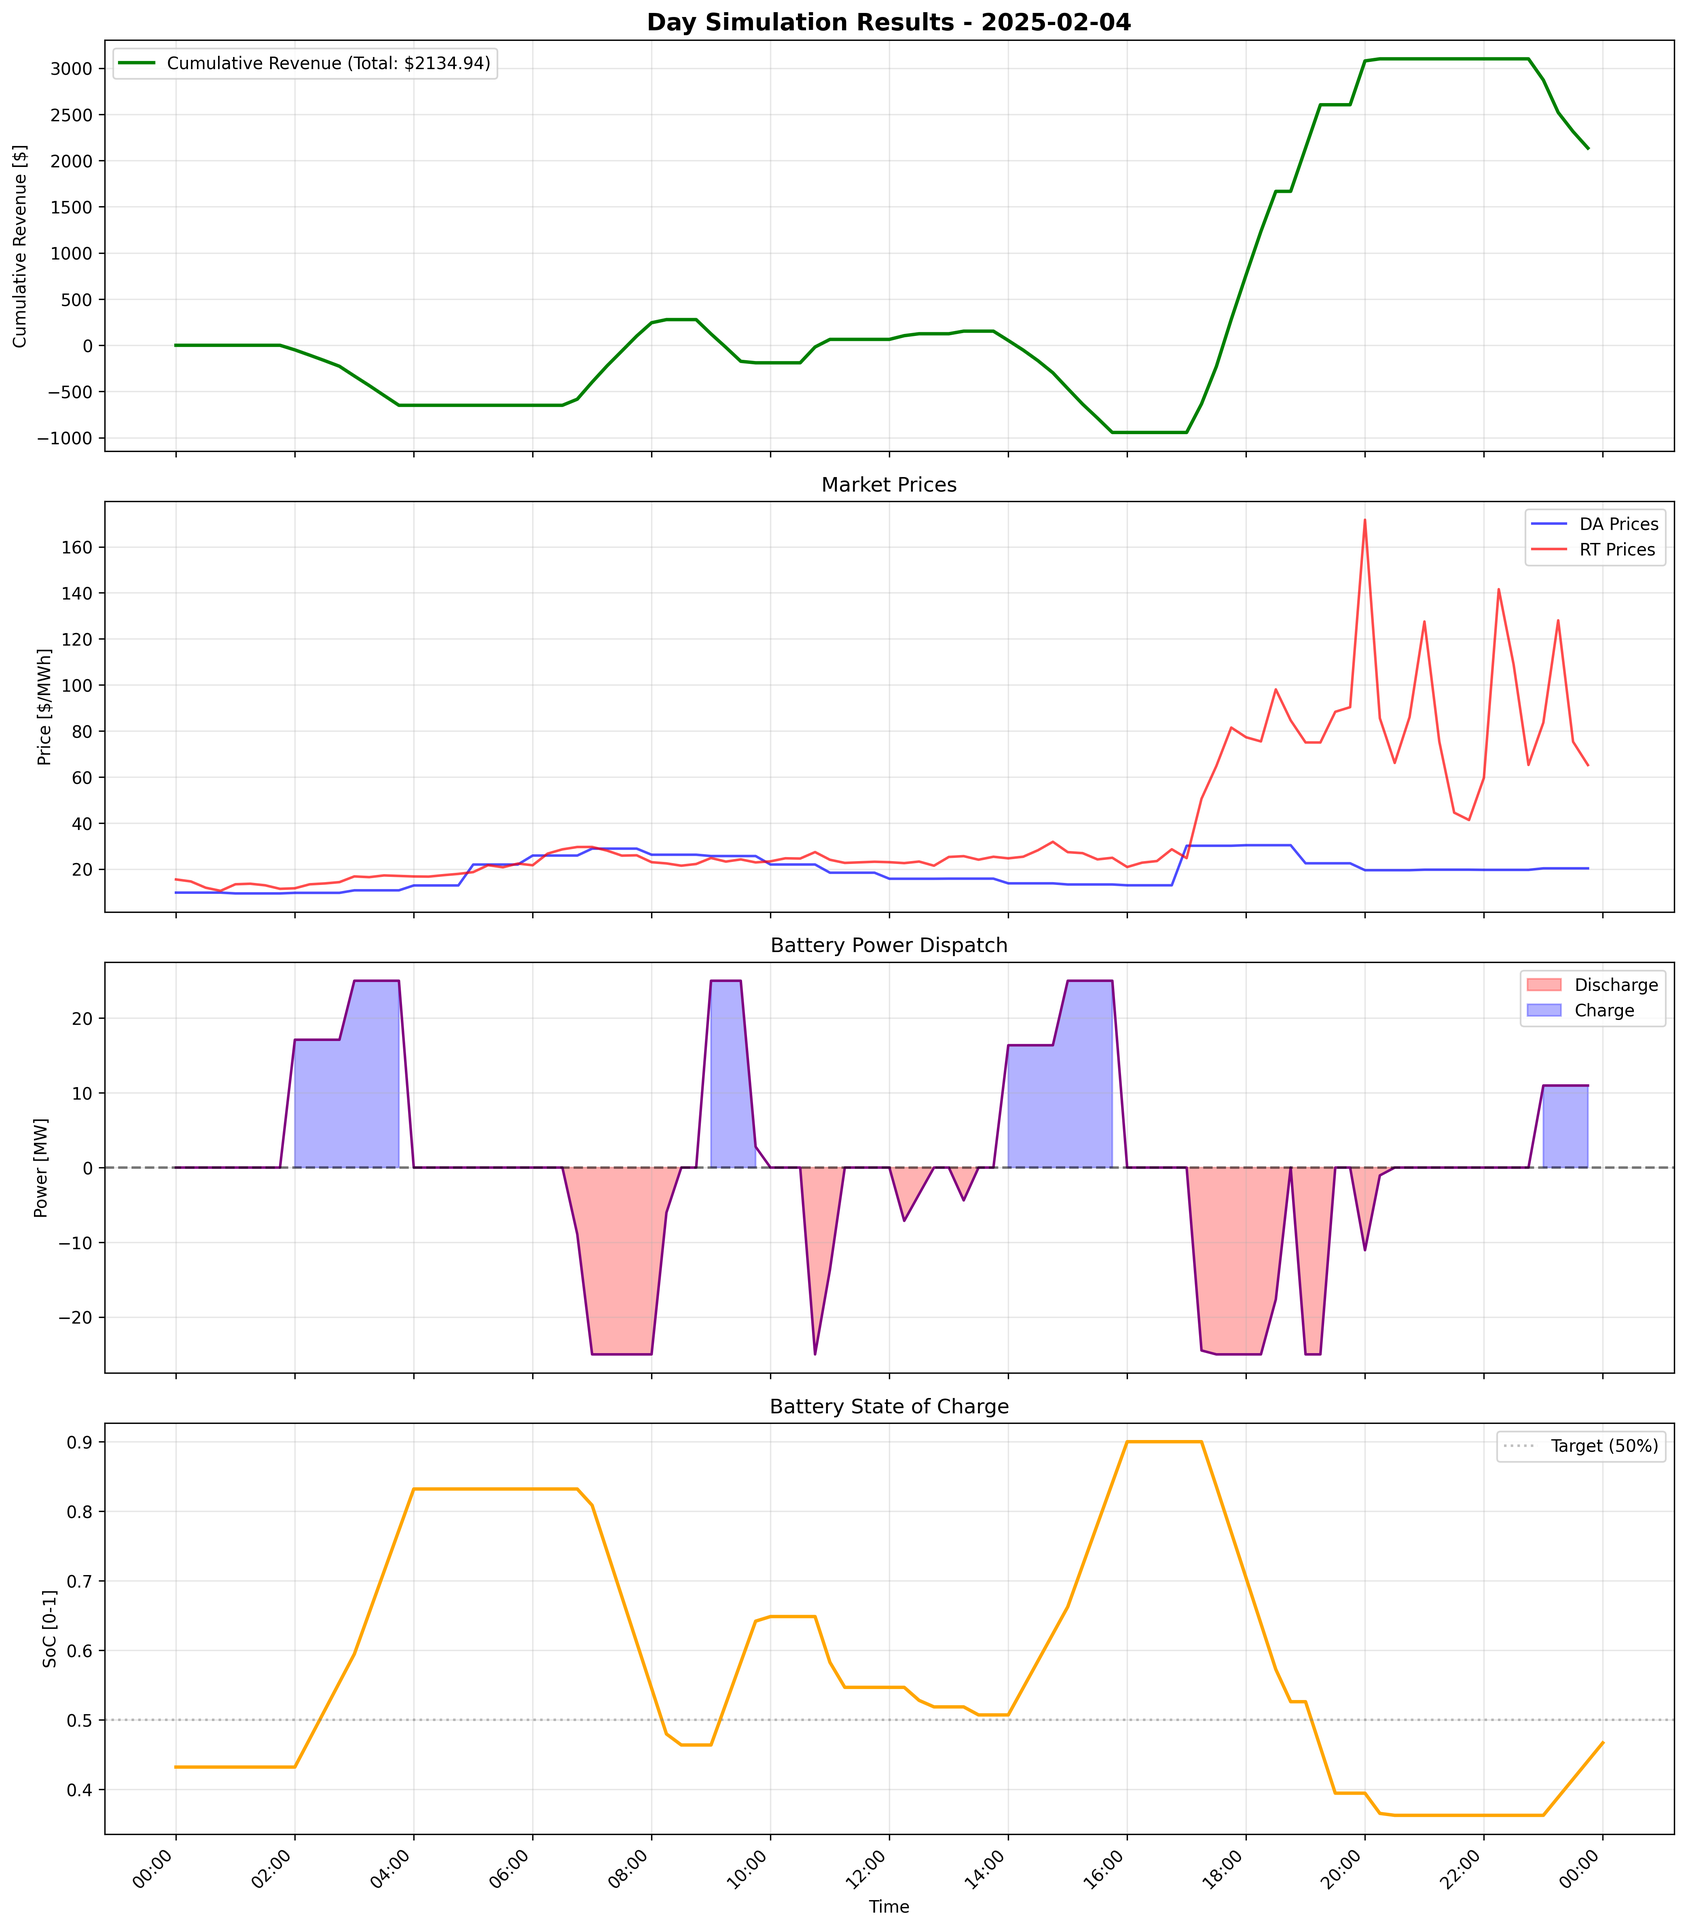
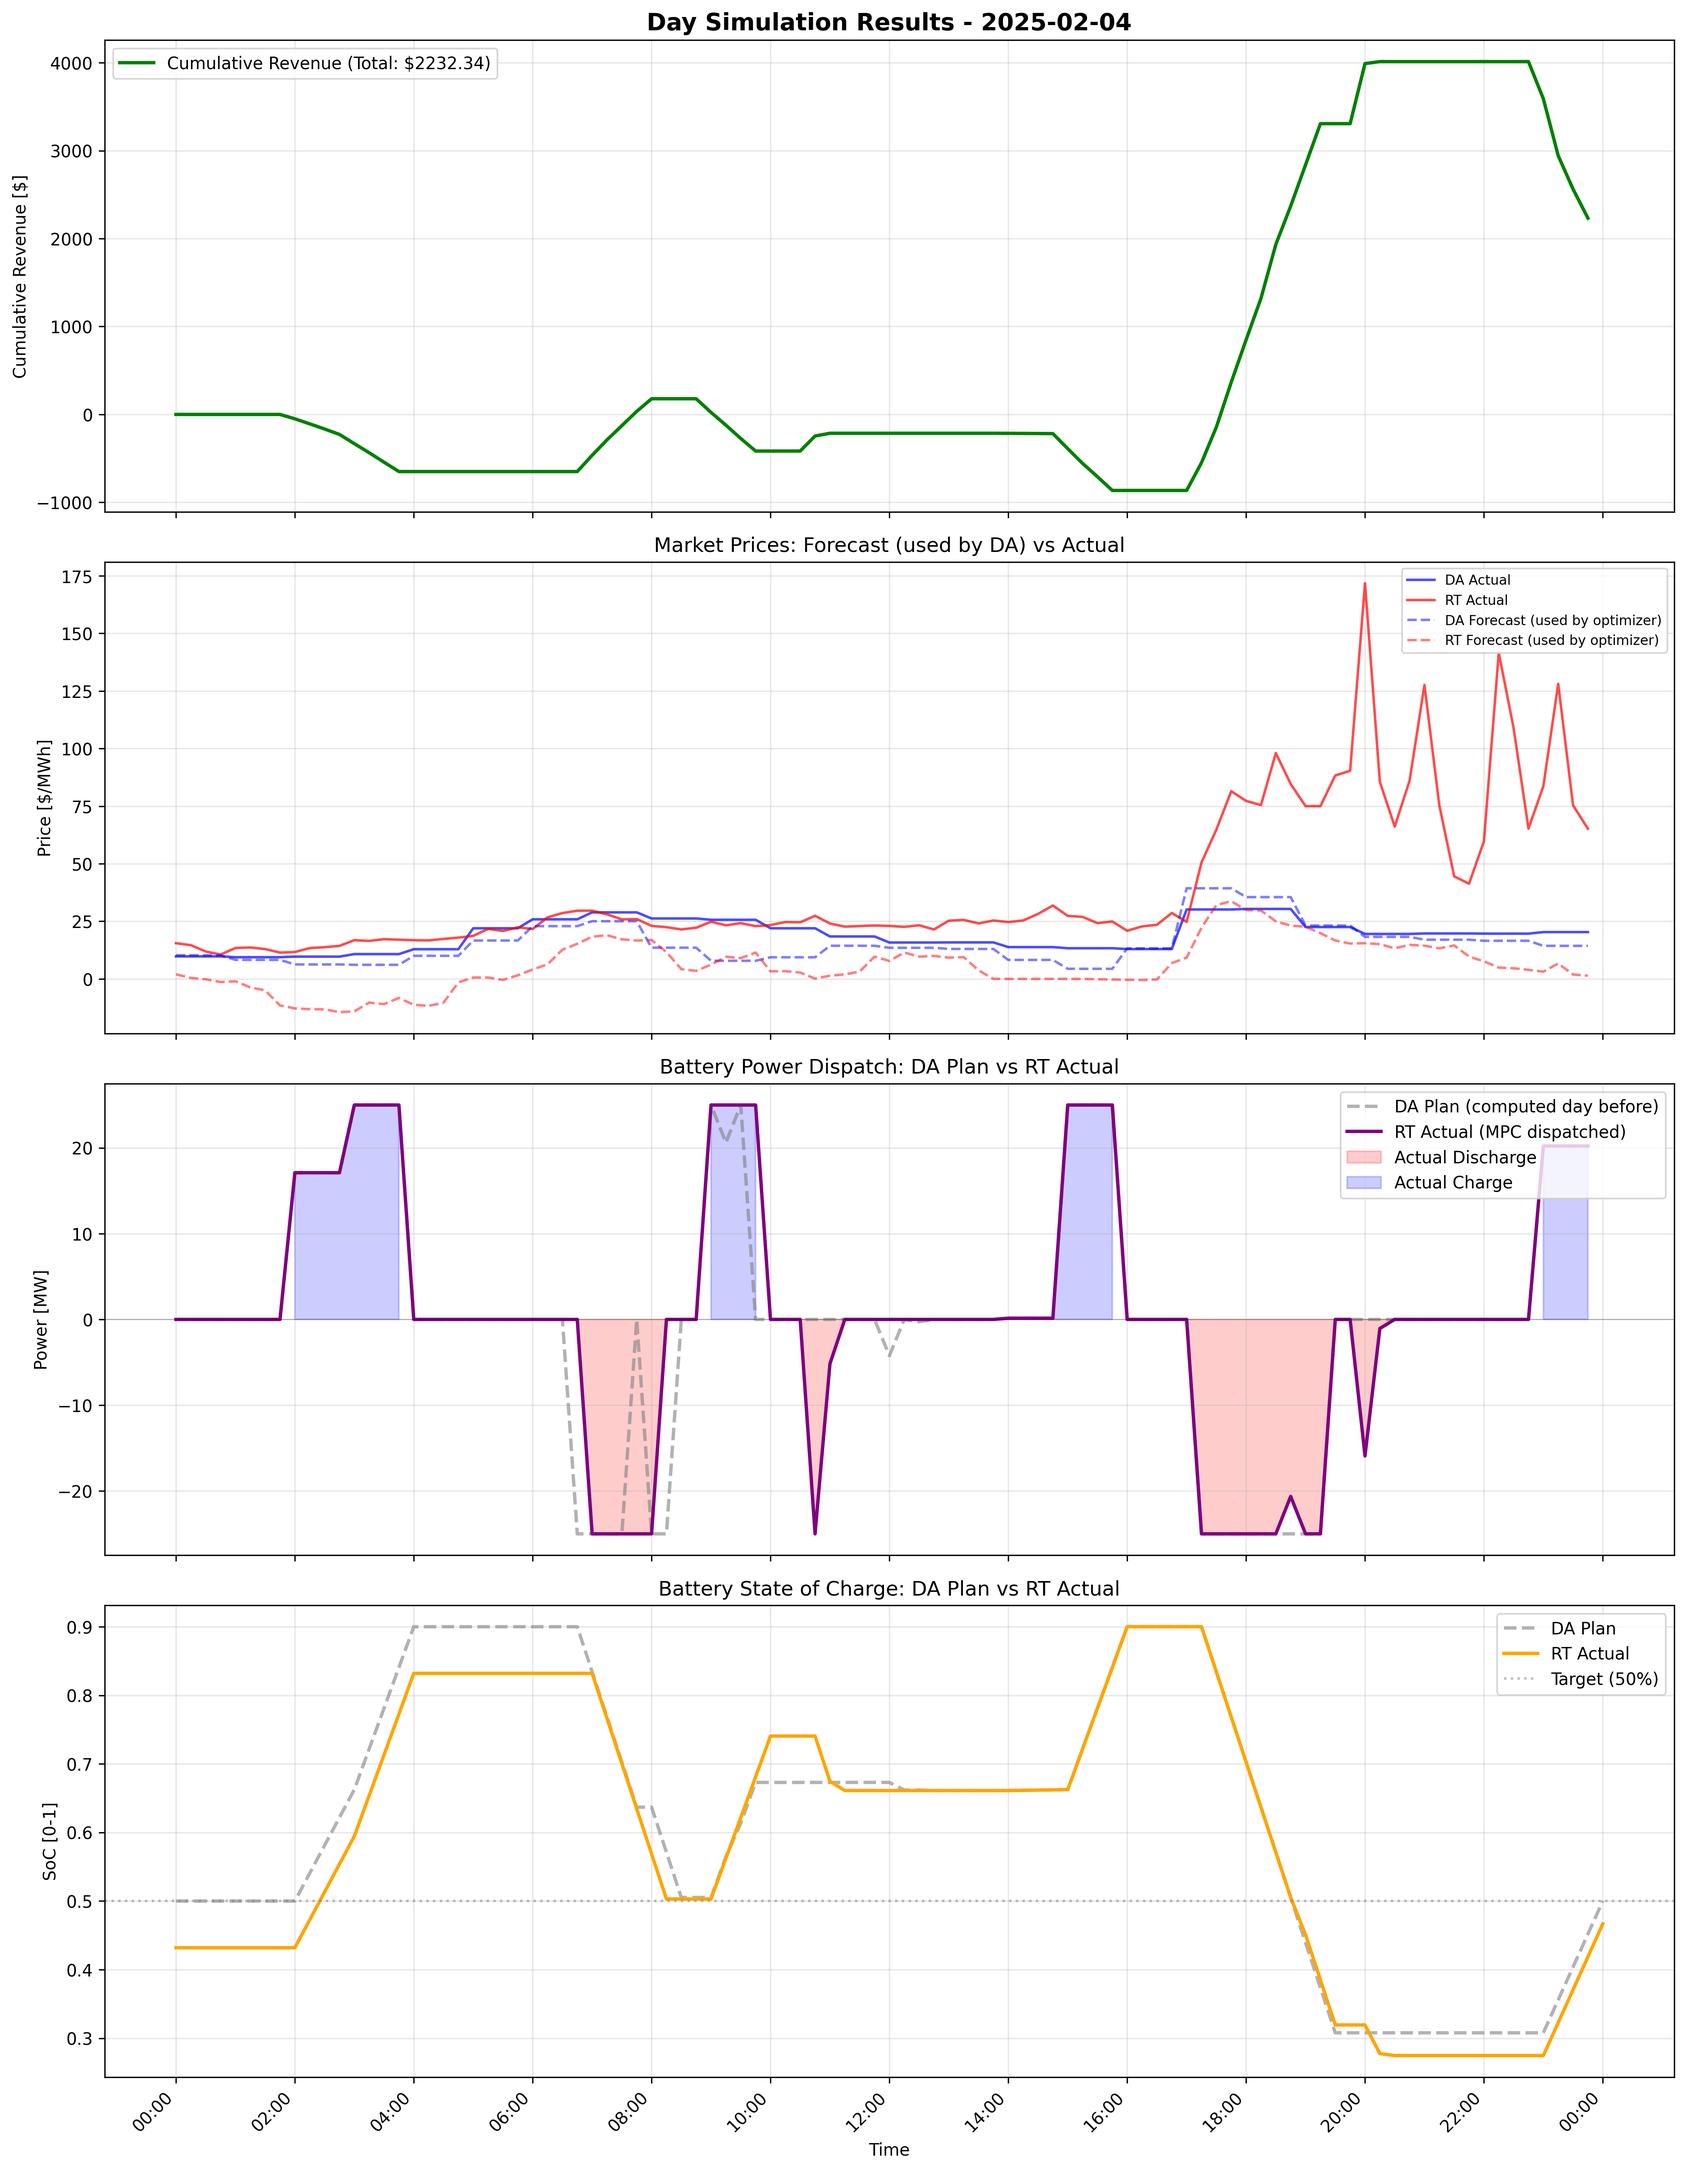
assing more lines to the analysis plot

diff --git a/src/simulator.py b/src/simulator.py
@@ -14,10 +14,12 @@ def plot_day_simulation(
     day_result: DaySimulationResult,
     actual_da_prices: np.ndarray,
     actual_rt_prices: np.ndarray,
+    da_schedule: Optional[DAScheduleResult] = None,
     save_path: str = None
 ) -> None:
     """
     Plot results from a single day simulation with real timestamps.
+    Shows both DA planned dispatch and actual RT dispatch.
     """
     try:
         # Create real timestamp axis (15-min intervals)
@@ -33,7 +35,7 @@ def plot_day_simulation(
             freq='15min'
         )
 
-        fig, (ax1, ax2, ax3, ax4) = plt.subplots(4, 1, figsize=(14, 16), sharex=True)
+        fig, (ax1, ax2, ax3, ax4) = plt.subplots(4, 1, figsize=(14, 18), sharex=True)
 
         # 1. Revenue accumulation
         step_revenues = []
@@ -49,31 +51,70 @@ def plot_day_simulation(
         ax1.legend()
         ax1.grid(True, alpha=0.3)
 
-        # 2. Prices
-        ax2.set_title("Market Prices")
-        ax2.plot(timestamps, actual_da_prices, "b-", alpha=0.7, linewidth=1.5, label="DA Prices")
-        ax2.plot(timestamps, actual_rt_prices, "r-", alpha=0.7, linewidth=1.5, label="RT Prices")
+        # 2. Prices - Show both FORECAST (what DA scheduler saw) and ACTUAL
+        ax2.set_title("Market Prices: Forecast (used by DA) vs Actual")
+
+        # Plot actual prices (solid lines)
+        ax2.plot(timestamps, actual_da_prices, "b-", alpha=0.7, linewidth=1.5, label="DA Actual")
+        ax2.plot(timestamps, actual_rt_prices, "r-", alpha=0.7, linewidth=1.5, label="RT Actual")
+
+        # Plot forecast prices if available (dashed lines)
+        if (da_schedule is not None and
+            da_schedule.da_price_forecast is not None and
+            da_schedule.rt_price_forecast is not None):
+            da_forecast = da_schedule.da_price_forecast[:len(timestamps)]
+            rt_forecast = da_schedule.rt_price_forecast[:len(timestamps)]
+            ax2.plot(timestamps, da_forecast, "b--", alpha=0.5, linewidth=1.5,
+                    label="DA Forecast (used by optimizer)")
+            ax2.plot(timestamps, rt_forecast, "r--", alpha=0.5, linewidth=1.5,
+                    label="RT Forecast (used by optimizer)")
+
         ax2.set_ylabel("Price [$/MWh]")
-        ax2.legend()
+        ax2.legend(loc='upper right', fontsize=8)
         ax2.grid(True, alpha=0.3)
 
-        # 3. Battery Power
-        ax3.set_title("Battery Power Dispatch")
-        ax3.plot(timestamps, day_result.power_trajectory, "purple", linewidth=1.5)
-        ax3.axhline(y=0, color="black", linestyle="--", alpha=0.5)
+        # 3. Battery Power Dispatch - COMPARE DA PLAN VS RT ACTUAL
+        ax3.set_title("Battery Power Dispatch: DA Plan vs RT Actual")
+
+        # Plot DA planned dispatch
+        if da_schedule is not None:
+            da_power = da_schedule.power_dispatch_schedule[:len(timestamps)]
+            ax3.plot(timestamps, da_power, "gray", linewidth=2, alpha=0.6,
+                    linestyle='--', label='DA Plan (computed day before)')
+
+        # Plot actual RT dispatch
+        ax3.plot(timestamps, day_result.power_trajectory, "purple", linewidth=2,
+                label='RT Actual (MPC dispatched)')
+        ax3.axhline(y=0, color="black", linestyle="-", alpha=0.3, linewidth=0.5)
+
+        # Shade discharge/charge regions for actual
         ax3.fill_between(timestamps, 0, day_result.power_trajectory,
                          where=(day_result.power_trajectory < 0),
-                         color='red', alpha=0.3, label='Discharge')
+                         color='red', alpha=0.2, label='Actual Discharge')
         ax3.fill_between(timestamps, 0, day_result.power_trajectory,
                          where=(day_result.power_trajectory > 0),
-                         color='blue', alpha=0.3, label='Charge')
+                         color='blue', alpha=0.2, label='Actual Charge')
+
         ax3.set_ylabel("Power [MW]")
-        ax3.legend()
+        ax3.legend(loc='upper right')
         ax3.grid(True, alpha=0.3)
 
-        # 4. State of Charge
-        ax4.set_title("Battery State of Charge")
-        ax4.plot(soc_timestamps, day_result.soc_trajectory, "orange", linewidth=2)
+        # 4. State of Charge - COMPARE DA PLAN VS RT ACTUAL
+        ax4.set_title("Battery State of Charge: DA Plan vs RT Actual")
+
+        # Plot DA planned SOC
+        if da_schedule is not None:
+            da_soc_timestamps = pd.date_range(
+                start=day_start,
+                periods=len(da_schedule.soc_schedule),
+                freq='15min'
+            )
+            ax4.plot(da_soc_timestamps, da_schedule.soc_schedule, "gray",
+                    linewidth=2, alpha=0.6, linestyle='--', label='DA Plan')
+
+        # Plot actual RT SOC
+        ax4.plot(soc_timestamps, day_result.soc_trajectory, "orange", linewidth=2,
+                label='RT Actual')
         ax4.axhline(y=0.5, color='gray', linestyle=':', alpha=0.5, label='Target (50%)')
         ax4.set_ylabel("SoC [0-1]")
         ax4.set_xlabel("Time")
@@ -149,7 +190,7 @@ def simulate_day(
     if len(day_data) != 96:
         raise ValueError(f"Expected 96 intervals for date {date}, got {len(day_data)}")
 
-    # Get actual prices for the day
+    # Get actual prices for the day for revenue calculation
     actual_rt_prices = day_data[f"{PRICE_NODE}_RTM"].values
 
     # === Stage 2: Real-Time MPC (run every 15 minutes) ===
@@ -398,6 +439,10 @@ def run_simulation(
             end_of_day_soc=end_of_day_soc
         )
 
+        # Store forecast prices used (for debugging/plotting)
+        da_schedule.da_price_forecast = np.array(da_prices.values)
+        da_schedule.rt_price_forecast = np.array(rt_prices.values)
+
         da_schedules[sim_date] = da_schedule
 
     # Now simulate each day using the pre-computed DA schedules
@@ -442,5 +487,6 @@ def run_simulation(
     return SimulationResult(
         daily_results=daily_results,
         cumulative_revenue=cumulative_revenue,
-        total_revenue=total_revenue
+        total_revenue=total_revenue,
+        da_schedules=da_schedules
     )

diff --git a/main.py b/main.py
@@ -60,16 +60,20 @@ def main():
         day_start = day_result.date.normalize()
         day_end = day_start + pd.Timedelta(days=1)
         day_data = data.loc[day_start:day_end - pd.Timedelta(minutes=15)]
-        
+
         if len(day_data) == 96:
             actual_da_prices = day_data[f"{PRICE_NODE}_DAM"].values
             actual_rt_prices = day_data[f"{PRICE_NODE}_RTM"].values
-            
+
+            # Get DA schedule for this day
+            da_schedule = results.da_schedules.get(day_result.date)
+
             day_plot_path = os.path.join(plots_dir, f"day_simulation_{day_result.date.strftime('%Y%m%d')}.png")
             plot_day_simulation(
-                day_result, 
-                actual_da_prices, 
-                actual_rt_prices, 
+                day_result,
+                actual_da_prices,
+                actual_rt_prices,
+                da_schedule=da_schedule,
                 save_path=day_plot_path
             )
     

diff --git a/src/utils.py b/src/utils.py
@@ -96,6 +96,8 @@ class DAScheduleResult:
     reg_down_capacity: np.ndarray   # Shape (288,) [MW]
     expected_revenue: float         # [$]
     diagnostic_information: Optional[dict] # stuff I need for debugging
+    da_price_forecast: Optional[np.ndarray] = None  # Forecast prices used (for plotting)
+    rt_price_forecast: Optional[np.ndarray] = None  # Forecast prices used (for plotting)
 
 @dataclass
 class RTMPCResult:
@@ -126,3 +128,4 @@ class SimulationResult:
     daily_results: List[DaySimulationResult]
     cumulative_revenue: np.ndarray  # Shape (n_days,)
     total_revenue: float  # [$]
+    da_schedules: dict  # Maps pd.Timestamp -> DAScheduleResult
